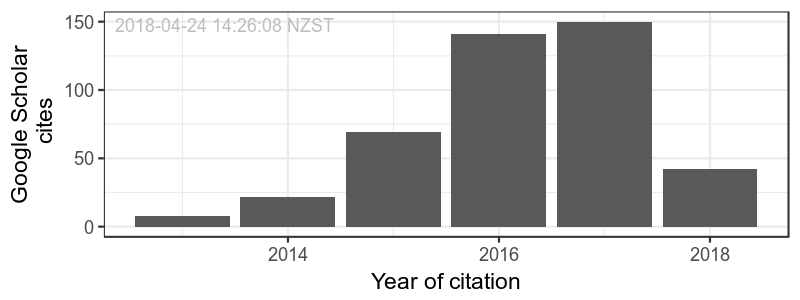
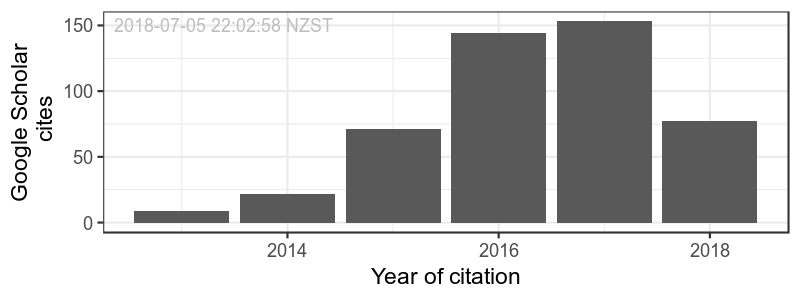
updated cv

diff --git a/index.md b/index.md
@@ -18,11 +18,14 @@ Bioinformatics PhD and data scientist
 
 ## Currently
 
-I am currently a Postdoc Research Fellow at [QUT](https://www.qut.edu.au/institute-of-health-and-biomedical-innovation) working on the creation of methods to deal with, and analyse, large genomic data sets. These methods include the incorporation of multiple layers of both phenotypic and genomic data. I work on a range of complex human disorders, including; obesity and type-2 diabetes, multiple sclerosis, glaucoma, migraine, ovarian cancer and asthma. I am also leading the development of diagnostic and research pipelines for visualisation and translational interpretation of data from sequencing based approaches.
+I am currently working at ESR (Institute of Environmental Science and Research) as a Senior Scientist in Bioinformatics and Data Science. My work involves the creation of methods to deal with, and analyse, large genomic data sets. These methods include the incorporation of multiple layers of both phenotypic and genomic data. I work on a range of complex human disorders, including; obesity and type-2 diabetes, multiple sclerosis, glaucoma, migraine, ovarian cancer and asthma. I am also leading the development of diagnostic and research pipelines for visualisation and translational interpretation of data from sequencing based approaches.
 
 ## Professional Positions Held
 
-`2014-` 
+`2018-` 
+__Institute of Environmental Science and Research__ Senior Scientist, Bioinformatics / Data Science
+
+`2014-2018` 
 __Queensland University of Technology__ Postdoc Research Fellow, Bioinformatics
 
 `2013-` 
@@ -120,13 +123,19 @@ A course designed to walk Research Supervisors through the frameworks and pragma
 ## Publication Metrics
 
 * Journal articles: __30__	
-* H-index: __11__
-* Citations: __437__
+* H-index: __12__
+* Citations: __482__
 
 ## Publications
 
 <!-- ### Journals -->
 `2018`
+**Benton MC**, Smith RA, Haupt LM, Albury CL, Maksemous N, Lea RA, and Griffiths LR. (2018) A Customisable Analysis Pipeline for Identification of Clinically Relevant Genetic Variants in Next Generation Sequencing Data. *Genetics in Medicine* (under review)
+
+Macartney-Coxson D, Cameron A, Clapham J, and **Benton MC**. (2018) DNA methylation in blood - potential to provide new insights in immune cell biology. *Scientific Reports* (under review)
+
+MaltbyV, Lea RA, Graves M, Sanders K, **Benton MC**, Tajouri L, Scott R, and Lechner-Scott J. (2018) A hypermethylated region in the promoter of the lymphotoxin-alpha gene in CD19+ B cells is associated with multiple sclerosis. *Scientific Reports* (under revision)
+
 Aquino EM, **Benton MC**, Haupt LM, Sutherland HG, Griffiths LR, and Lea RA. (2018) Current understanding of DNA methylation and age-related disease. *OBM Genetics* 2(2) [DOI:10.21926/obm.genet.1802016]
 
 Bradshaw G, Lualhati RL, Albury CL, Maksemous N, Roos-Araujo D, Smith RA, **Benton MC**, Eccles DA, Lea RA, Sutherland HG, Haupt LM and Griffiths LR. (2018) Exome sequencing diagnoses X-linked moesin-associated immunodeficiency in a primary immunodeficiency case. *Frontiers in Immunology* 9
